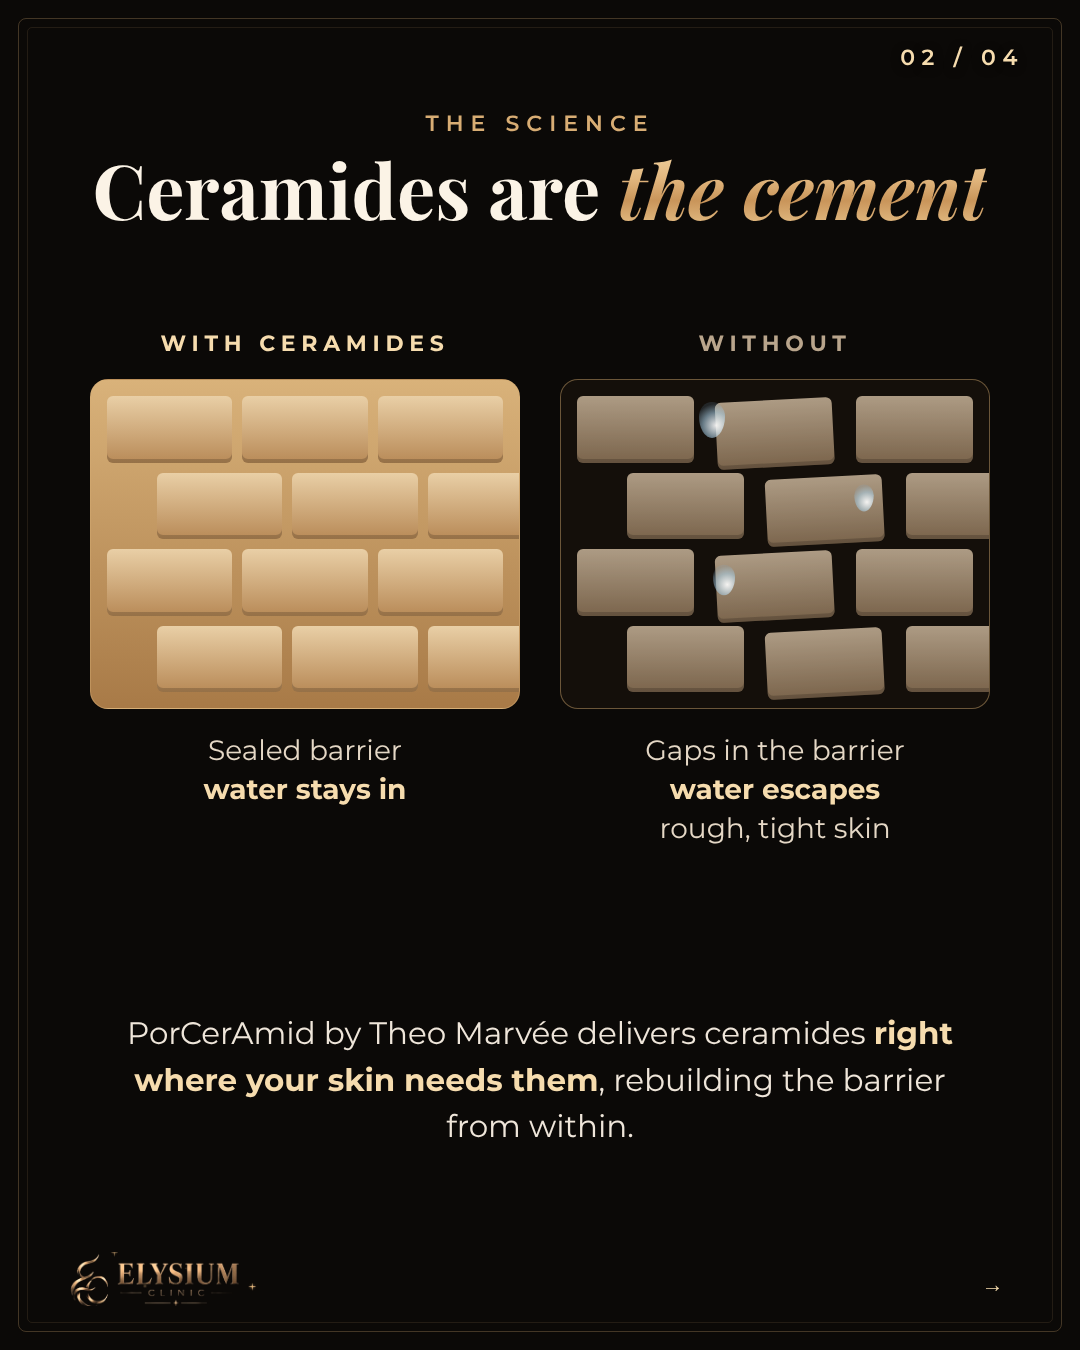
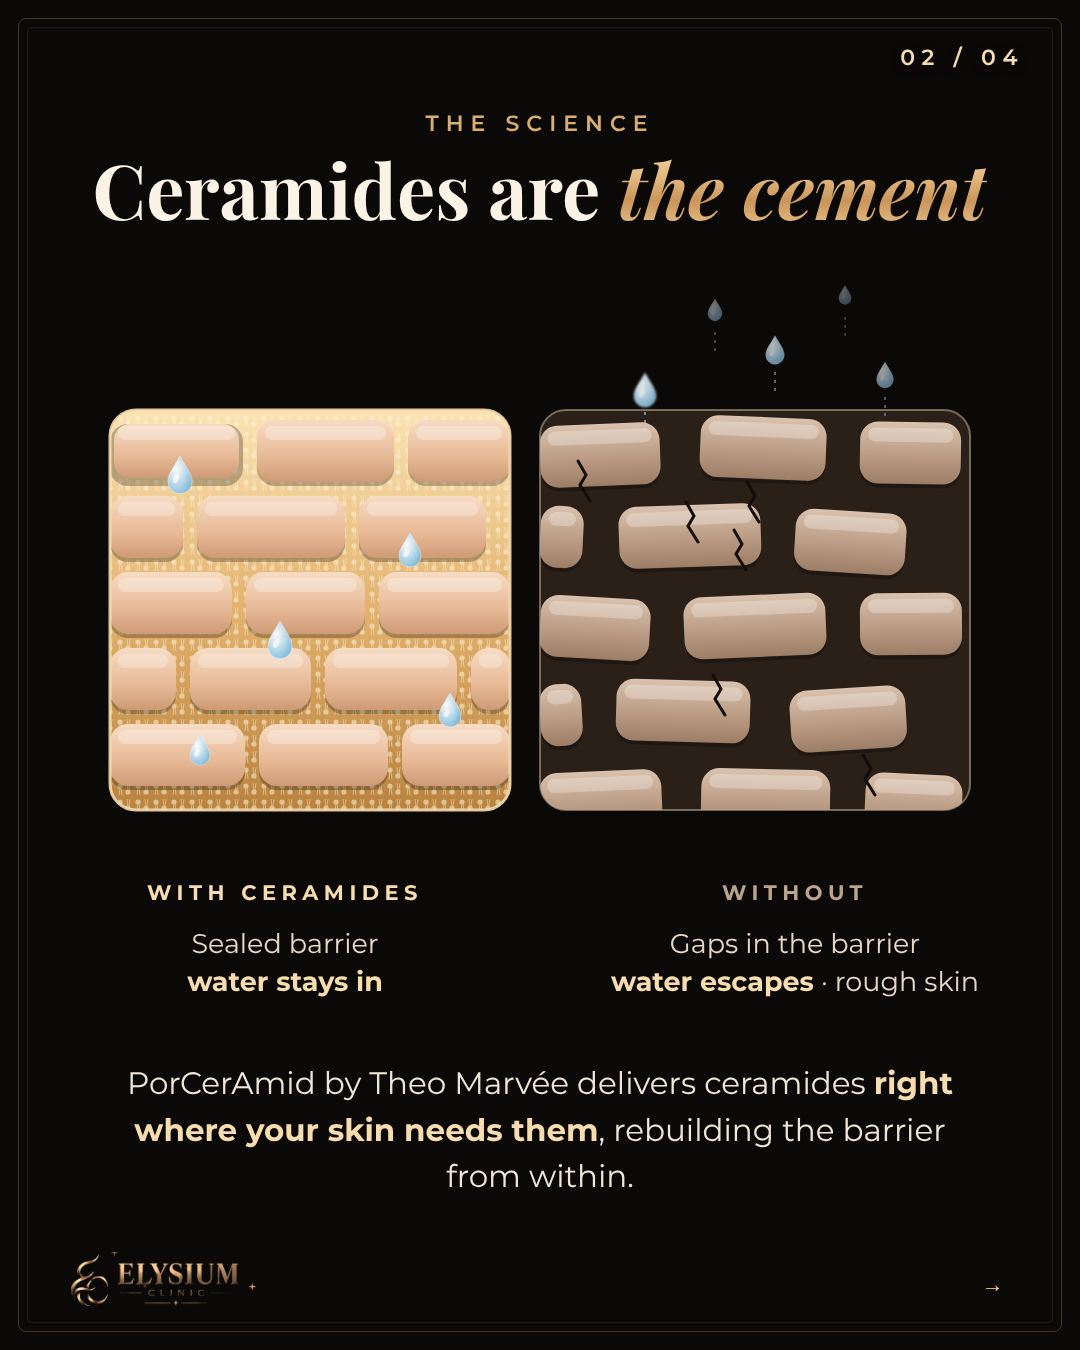
24.11: new skin-barrier illustration on carousel slide 2
Claude-Session: https://claude.ai/code/session_01SaUhS5EeEBn7oMfuXG8zXf

Changed region(s): [[0.0611, 0.2178, 0.9167, 0.6222], [0.1222, 0.6533, 0.9167, 0.9022], [0.7639, 0.2178, 0.7944, 0.2489]]

diff --git a/posts_24_11/src/p_2.html b/posts_24_11/src/p_2.html
@@ -11,15 +11,9 @@
 .drop{position:absolute;width:26px;height:36px;border-radius:50% 50% 50% 50%/60% 60% 40% 40%;background:radial-gradient(circle at 35% 35%,rgba(255,255,255,.9),rgba(170,210,235,.55) 45%,rgba(120,170,210,.15) 75%);transform:rotate(180deg)}
 </style></head><body><div class="c"><div class="deco"></div><div class="no">02 / 04</div>
 <div style="position:absolute;top:110px;left:0;right:0;text-align:center"><div style="font-size:22px;letter-spacing:.32em;color:var(--gold);font-weight:600">THE SCIENCE</div><h1 style="font-family:'Playfair Display',serif;font-size:76px;font-weight:700;color:#fbf3e6;margin-top:12px">Ceramides are <em class="goldtext" style="font-style:italic">the cement</em></h1></div>
-<div class="walls">
- <div class="w"><div class="lab" style="color:var(--gold1)">WITH CERAMIDES</div><div class="wall" style="background:linear-gradient(180deg,#d9b27a,#a87a47)">
-  <div class="r"><div class="b"></div><div class="b"></div><div class="b"></div></div><div class="r o"><div class="b"></div><div class="b"></div><div class="b"></div></div>
-  <div class="r"><div class="b"></div><div class="b"></div><div class="b"></div></div><div class="r o"><div class="b"></div><div class="b"></div><div class="b"></div></div></div>
-  <div class="cap">Sealed barrier<br><b>water stays in</b></div></div>
- <div class="w"><div class="lab" style="color:#b9a58c">WITHOUT</div><div class="wall bad">
-  <div class="r"><div class="b"></div><div class="b"></div><div class="b"></div></div><div class="r o"><div class="b"></div><div class="b"></div><div class="b"></div></div>
-  <div class="r"><div class="b"></div><div class="b"></div><div class="b"></div></div><div class="r o"><div class="b"></div><div class="b"></div><div class="b"></div></div>
-  <div class="drop" style="left:138px;top:22px"></div><div class="drop" style="left:290px;top:100px;transform:rotate(180deg) scale(.75)"></div><div class="drop" style="left:150px;top:182px;transform:rotate(180deg) scale(.85)"></div></div>
-  <div class="cap">Gaps in the barrier<br><b>water escapes</b><br>rough, tight skin</div></div></div>
-<div style="position:absolute;left:100px;right:100px;top:1010px;text-align:center;font-size:31px;line-height:1.5;color:#efe6da">PorCerAmid by Theo Marvée delivers ceramides <b style="color:#f6dcae">right where your skin needs them</b>, rebuilding the barrier from within.</div>
+<div style="position:absolute;left:80px;top:270px;width:920px;height:600px"><img src="ceramide_svg.svg" style="width:920px;height:600px"></div>
+<div style="position:absolute;left:80px;width:410px;top:880px;text-align:center;font-size:21px;letter-spacing:.26em;font-weight:700;color:#f6dcae">WITH CERAMIDES</div><div style="position:absolute;right:80px;width:410px;top:880px;text-align:center;font-size:21px;letter-spacing:.26em;font-weight:700;color:#b9a58c">WITHOUT</div>
+<div style="position:absolute;left:80px;width:410px;top:925px;text-align:center;font-size:27px;line-height:1.4;color:#e5d8c6">Sealed barrier<br><b style="color:#f6dcae">water stays in</b></div>
+<div style="position:absolute;right:80px;width:410px;top:925px;text-align:center;font-size:27px;line-height:1.4;color:#e5d8c6">Gaps in the barrier<br><b style="color:#f6dcae">water escapes</b> · rough skin</div>
+<div style="position:absolute;left:100px;right:100px;top:1060px;text-align:center;font-size:31px;line-height:1.5;color:#efe6da">PorCerAmid by Theo Marvée delivers ceramides <b style="color:#f6dcae">right where your skin needs them</b>, rebuilding the barrier from within.</div>
 <div class="swipe">→</div><div class="lg"><img src="logo.png"></div></div></body></html>
